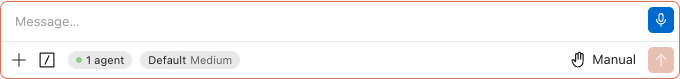
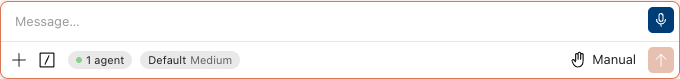
style(agents): the mic's blue is darkened so white keeps 4.5:1 in every theme
--mic-bg/--mic-hover mix the theme's button blue 58% with black: Black Blue's
#7cc4ff gave white only 1.9:1. The palette test now checks the white glyph
on the mic, at rest and hovered, in Black Blue, Dark 2026, Light 2026, Dark
Modern, Light Modern and with no theme, and that it stays blue. The harness
expects the darkened blue and shoots Black Blue too.

Changed region(s): [[0.9265, 0.0759, 1.0, 0.4304]]

diff --git a/extensions/friedliver-agents/test/palette.test.ts b/extensions/friedliver-agents/test/palette.test.ts
@@ -91,9 +91,29 @@ describe('the design tokens keep WCAG contrast in the 2026 themes', () => {
     });
   }
 
-  it('the mic\'s fallback blue (no theme) keeps a white glyph at 4.5:1', () => {
-    const vars = declarations(block());
-    for (const t of ['--mic-bg', '--mic-hover']) expect(contrast(resolve('var(--mic-fg)', vars), resolve(`var(${t})`, vars)), t).toBeGreaterThanOrEqual(4.5);
+  it('the mic keeps a white glyph at 4.5:1 on its darkened blue in five themes and with none', () => {
+    const json = (file: string) => JSON.parse(readFileSync(file, 'utf8').replace(/^\s*\/\/.*$/gm, '').replace(/,(\s*[}\]])/g, '$1')).colors;
+    const blackBlue = json(path.join(__dirname, '../../friedliver-theme/themes/friedliver-black-blue-color-theme.json'));
+    const fixture = (name: string) => theme(name);
+    const themes: Record<string, Record<string, string>> = {
+      'Black Blue': { '--vscode-button-background': blackBlue['button.background'], '--vscode-button-hoverBackground': blackBlue['button.hoverBackground'] },
+      'Dark 2026': fixture('dark-2026'),
+      'Light 2026': fixture('light-2026'),
+      // VS Code's built-in Dark Modern and Light Modern (dark_modern.json, light_modern.json).
+      'Dark Modern': { '--vscode-button-background': '#0078D4', '--vscode-button-hoverBackground': '#026EC1' },
+      'Light Modern': { '--vscode-button-background': '#005FB8', '--vscode-button-hoverBackground': '#0258A8' },
+      none: {},
+    };
+    expect(blackBlue['button.background']).toBe('#7cc4ff');
+    for (const [name, colors] of Object.entries(themes)) {
+      const vars = { ...declarations(block()), ...colors };
+      for (const t of ['--mic-bg', '--mic-hover']) {
+        const back = resolve(`var(${t})`, vars);
+        expect(contrast(resolve('var(--mic-fg)', vars), back), `${name} ${t}`).toBeGreaterThanOrEqual(4.5);
+        // Still clearly blue: blue the strongest channel.
+        expect(back[2], `${name} ${t} is blue`).toBeGreaterThan(Math.max(back[0], back[1]));
+      }
+    }
   });
 
   it('defines each token once, and every var() the stylesheet reads', () => {

diff --git a/extensions/friedliver-agents/media/webview.css b/extensions/friedliver-agents/media/webview.css
@@ -49,9 +49,10 @@
   --warn: var(--vscode-editorWarning-foreground, #e1c08d);
   --toggle-on: var(--button-bg);
   --effort-fill: var(--vscode-inputOption-activeBorder, #2a2b2c);
-  /* The composer's mic: the theme's button blue, a white glyph. */
-  --mic-bg: var(--vscode-button-background, #0078d4);
-  --mic-hover: var(--vscode-button-hoverBackground, #026ec1);
+  /* The composer's mic: the theme's button blue darkened to 58% so a white glyph keeps 4.5:1
+     even on a light button blue (Black Blue's #7cc4ff); palette.test.ts checks five themes. */
+  --mic-bg: color-mix(in srgb, var(--vscode-button-background, #0078d4) 58%, #000);
+  --mic-hover: color-mix(in srgb, var(--vscode-button-hoverBackground, #026ec1) 58%, #000);
   --mic-fg: #fff;
   /* The one loud colour of the Agent Manager: "you must decide". */
   --decision: var(--vscode-friedliver-decision, var(--focus-border));
